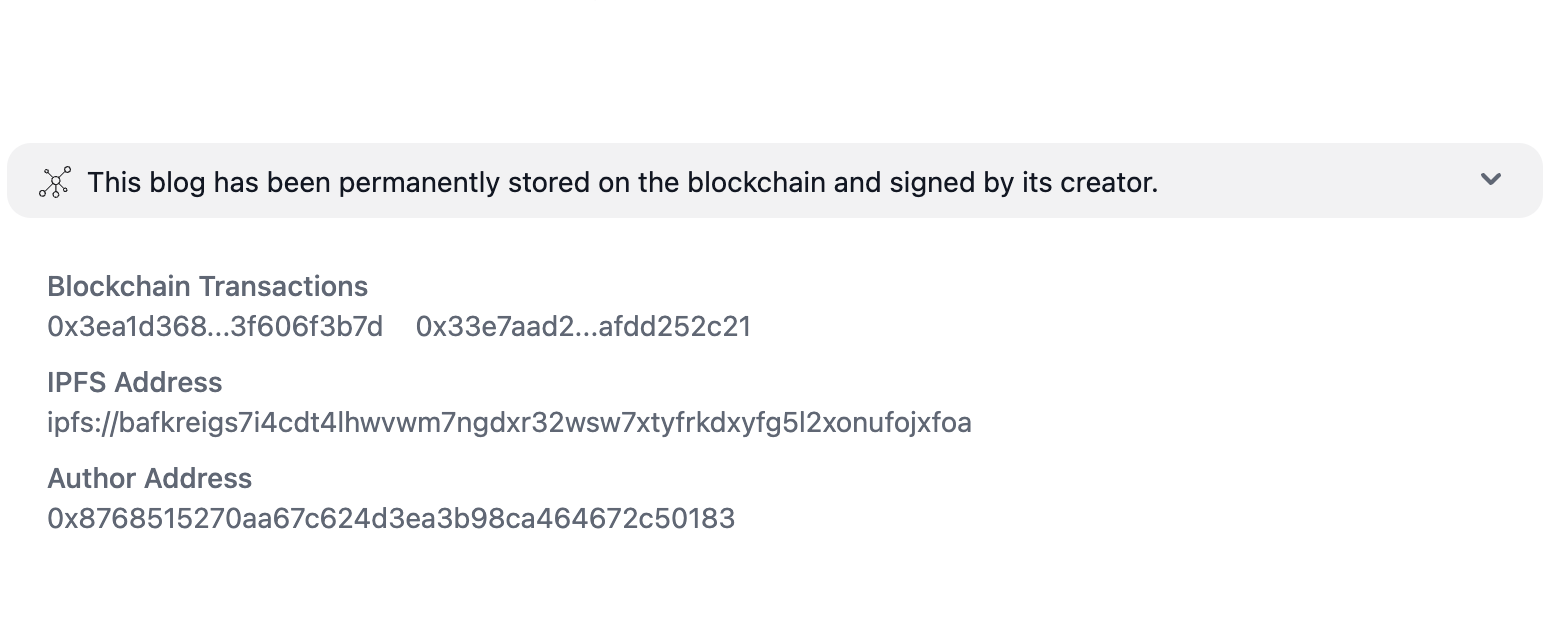
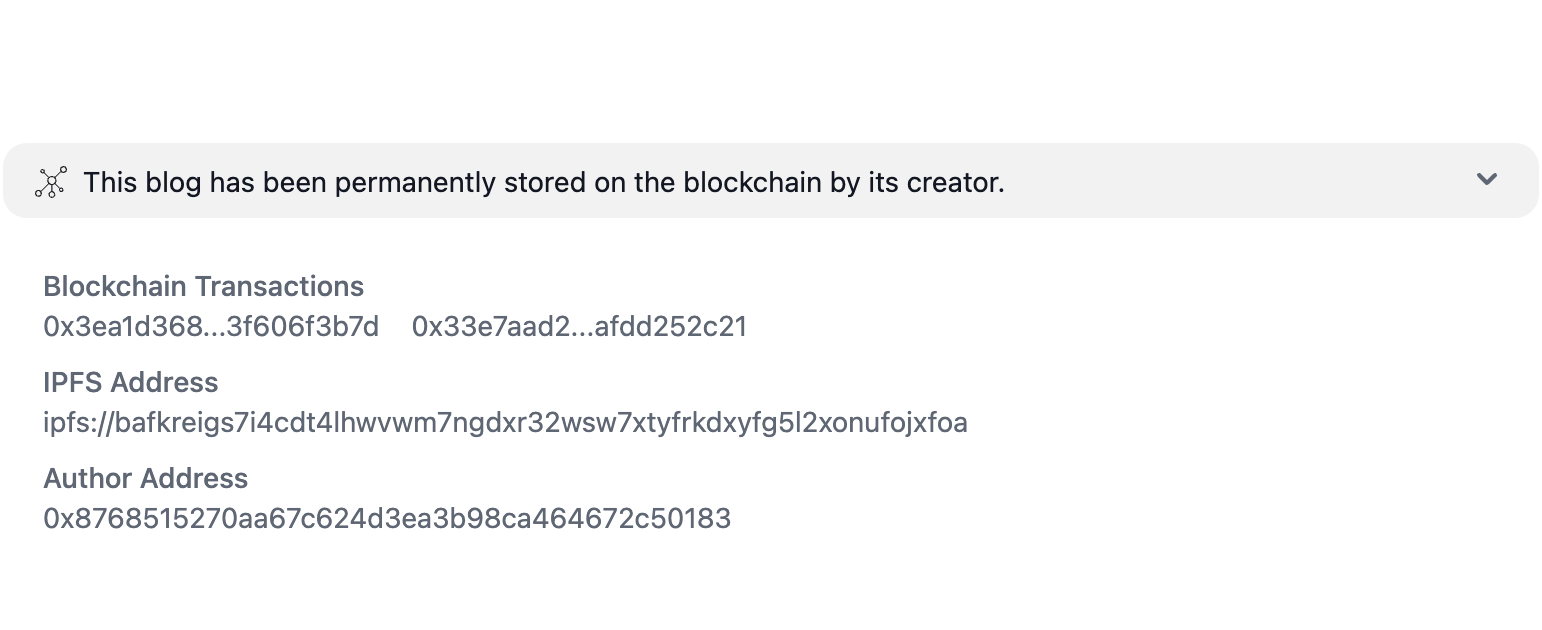
feat: update text

diff --git a/src/pages/index.tsx b/src/pages/index.tsx
@@ -56,8 +56,8 @@ export default function Home({ region }: { region: string | null }) {
     {
       screenshot: {
         src: "/screenshot4.png",
-        width: 1548,
-        height: 626,
+        width: 1542,
+        height: 630,
       },
       icon: <BlockchainIcon className="inline mb-2" />,
       title: "Blockchain",
@@ -65,8 +65,7 @@ export default function Home({ region }: { region: string | null }) {
         <>
           All blog data, including config, posts, following, comment...
           Permanently stored on the blockchain <b>by your own hands</b> and can
-          only be controlled by yourself and not the platform like some other
-          &quot;Web3&quot; publishing platform.
+          only be controlled by yourself and not the platform.
         </>
       ),
     },
@@ -77,7 +76,7 @@ export default function Home({ region }: { region: string | null }) {
         height: 1041,
       },
       icon: <LoveIcon className="inline mb-2" />,
-      title: "Rich interactions",
+      title: "Rich Interactions",
       text: "Users can follow, comment, like, and collect your blog and posts, all on the blockchain of course.",
     },
     {
@@ -87,7 +86,7 @@ export default function Home({ region }: { region: string | null }) {
         height: 721,
       },
       icon: <DashboardIcon className="inline mb-2" />,
-      title: "Highly customizable",
+      title: "Highly Customizable",
       text: "Domain name, navigation bar, custom styles, all as you wish, and stored on the blockchain.",
     },
     {
@@ -103,15 +102,17 @@ export default function Home({ region }: { region: string | null }) {
   ]
 
   const comparing = [
-    "Only controlled by yourself",
-    "Like function",
-    "Comment function",
-    "Following function",
-    "Custom domain",
+    "Only Controlled by Yourself",
+    "Open Source",
+    "Self-hosting",
+    "Like Interaction",
+    "Comment Interaction",
+    "Following Interaction",
+    "Custom Domain",
     "Custom CSS",
     "Navigation",
     "Pages",
-    "Scheduled publishing",
+    "Scheduled Publishing",
   ]
 
   return (

diff --git a/src/components/common/BlockchainInfo.tsx b/src/components/common/BlockchainInfo.tsx
@@ -24,8 +24,7 @@ export const BlockchainInfo: React.FC<{
                       ? "post"
                       : "page"
                     : "blog"}{" "}
-                  has been permanently stored on the blockchain and signed by
-                  its creator.
+                  has been permanently stored on the blockchain by its creator.
                 </span>
               </span>
               <ChevronUpIcon

diff --git a/README.md b/README.md
@@ -2,7 +2,7 @@
 
 > On-Chain Content Creating for Absolutely Everyone
 
-Meet xlog, the on-chain and open-source blogging platform for everyone. Permanently stored on the blockchain and signed by you.
+Meet xlog, the on-chain and open-source blogging platform for everyone. Permanently stored on the blockchain by yourself.
 
 This project is developed based on [proselog](https://github.com/proselog/proselog)
 
